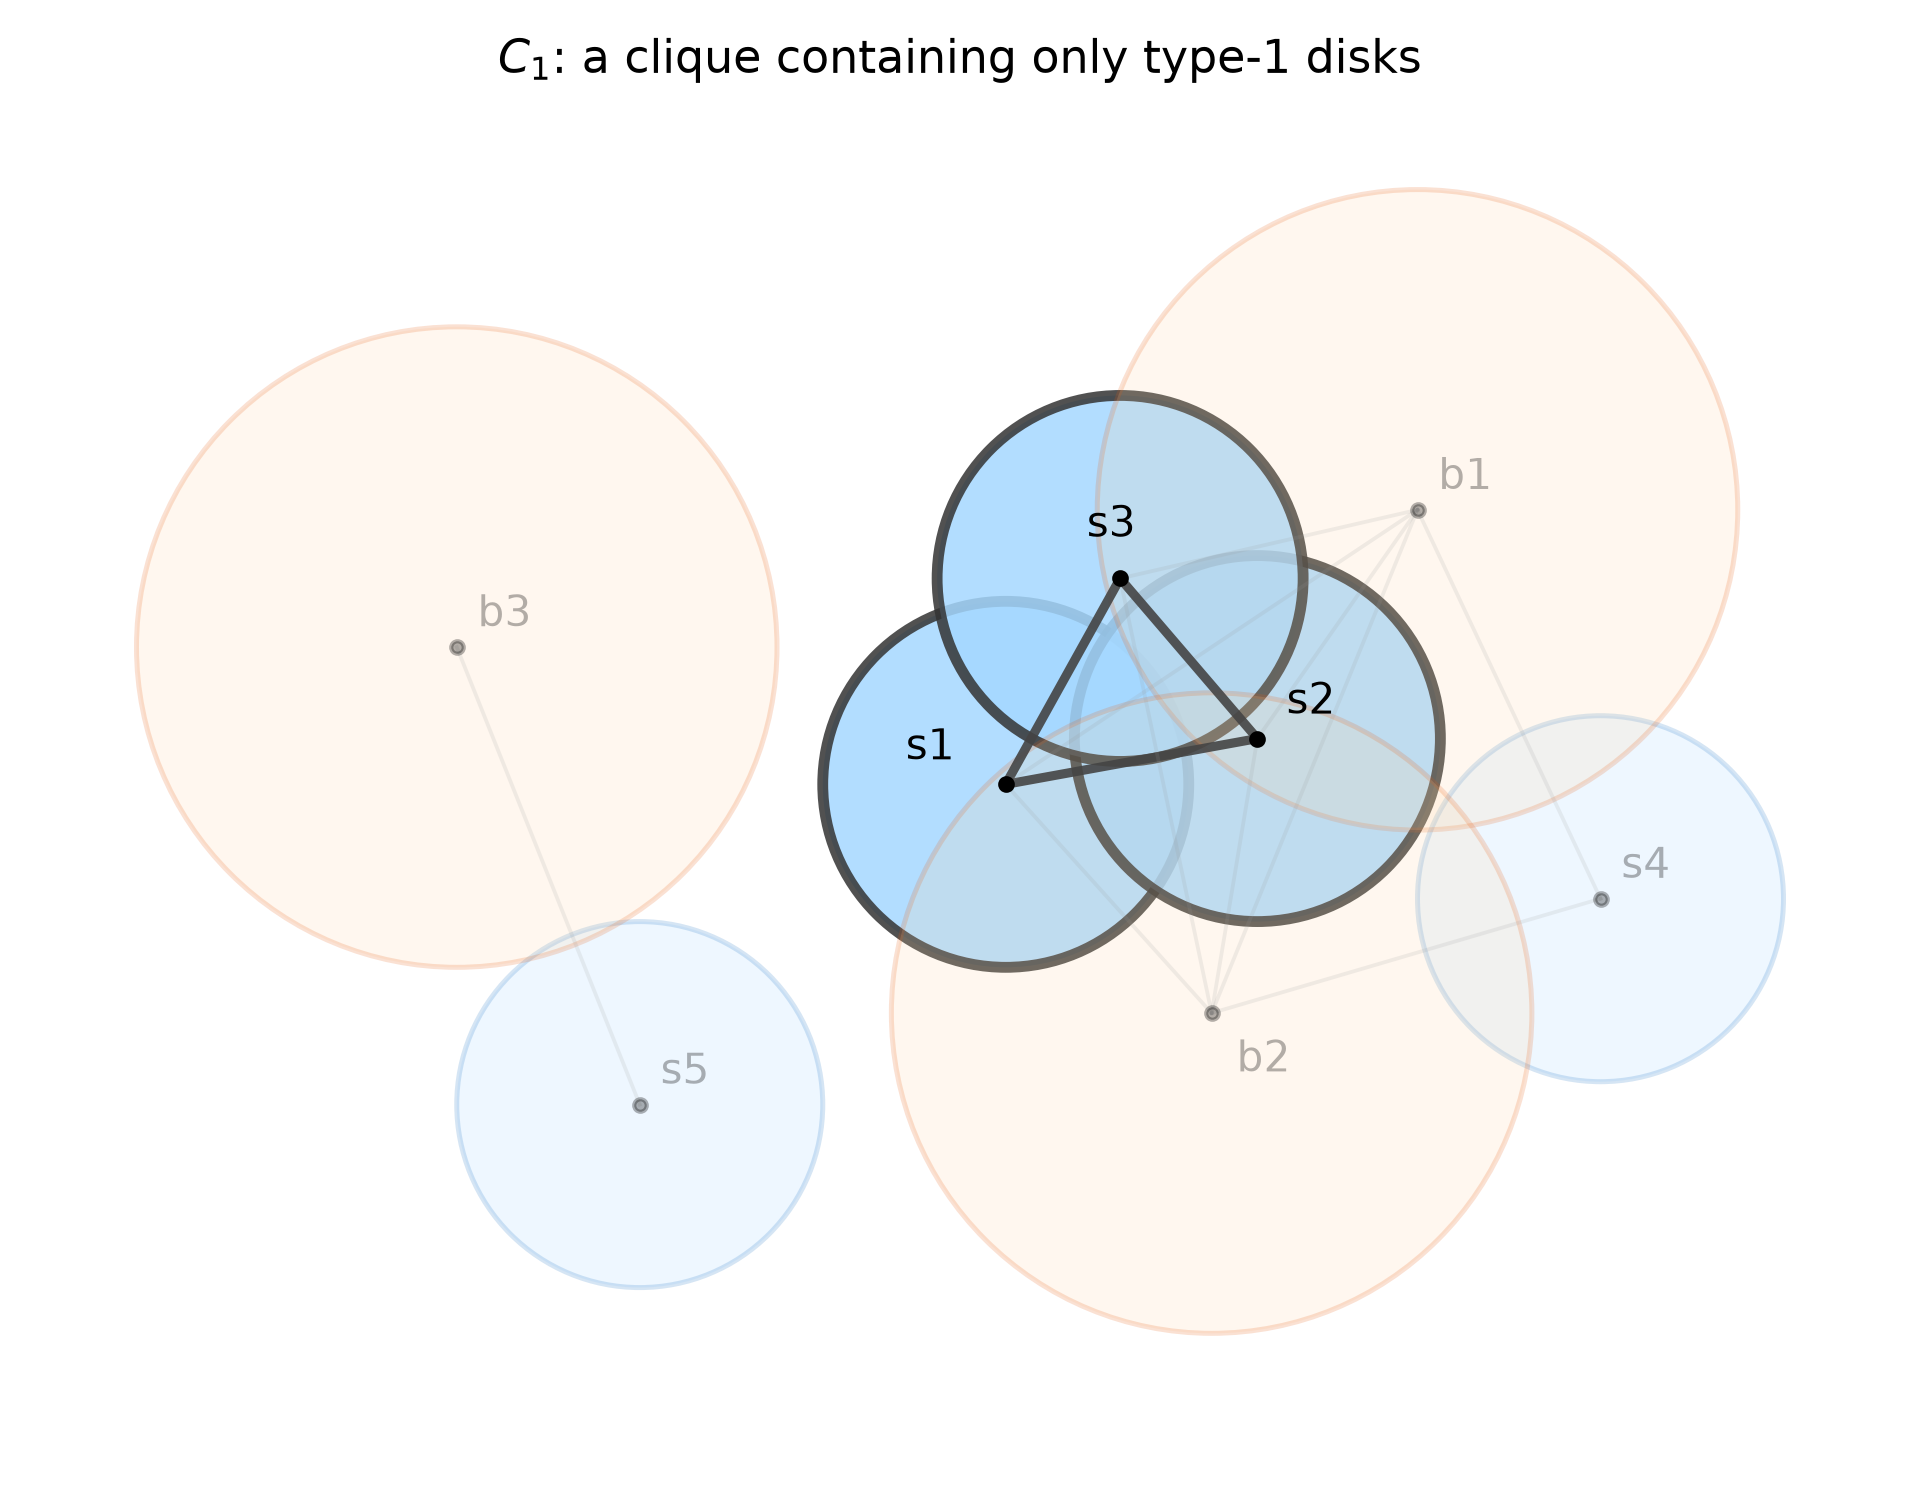
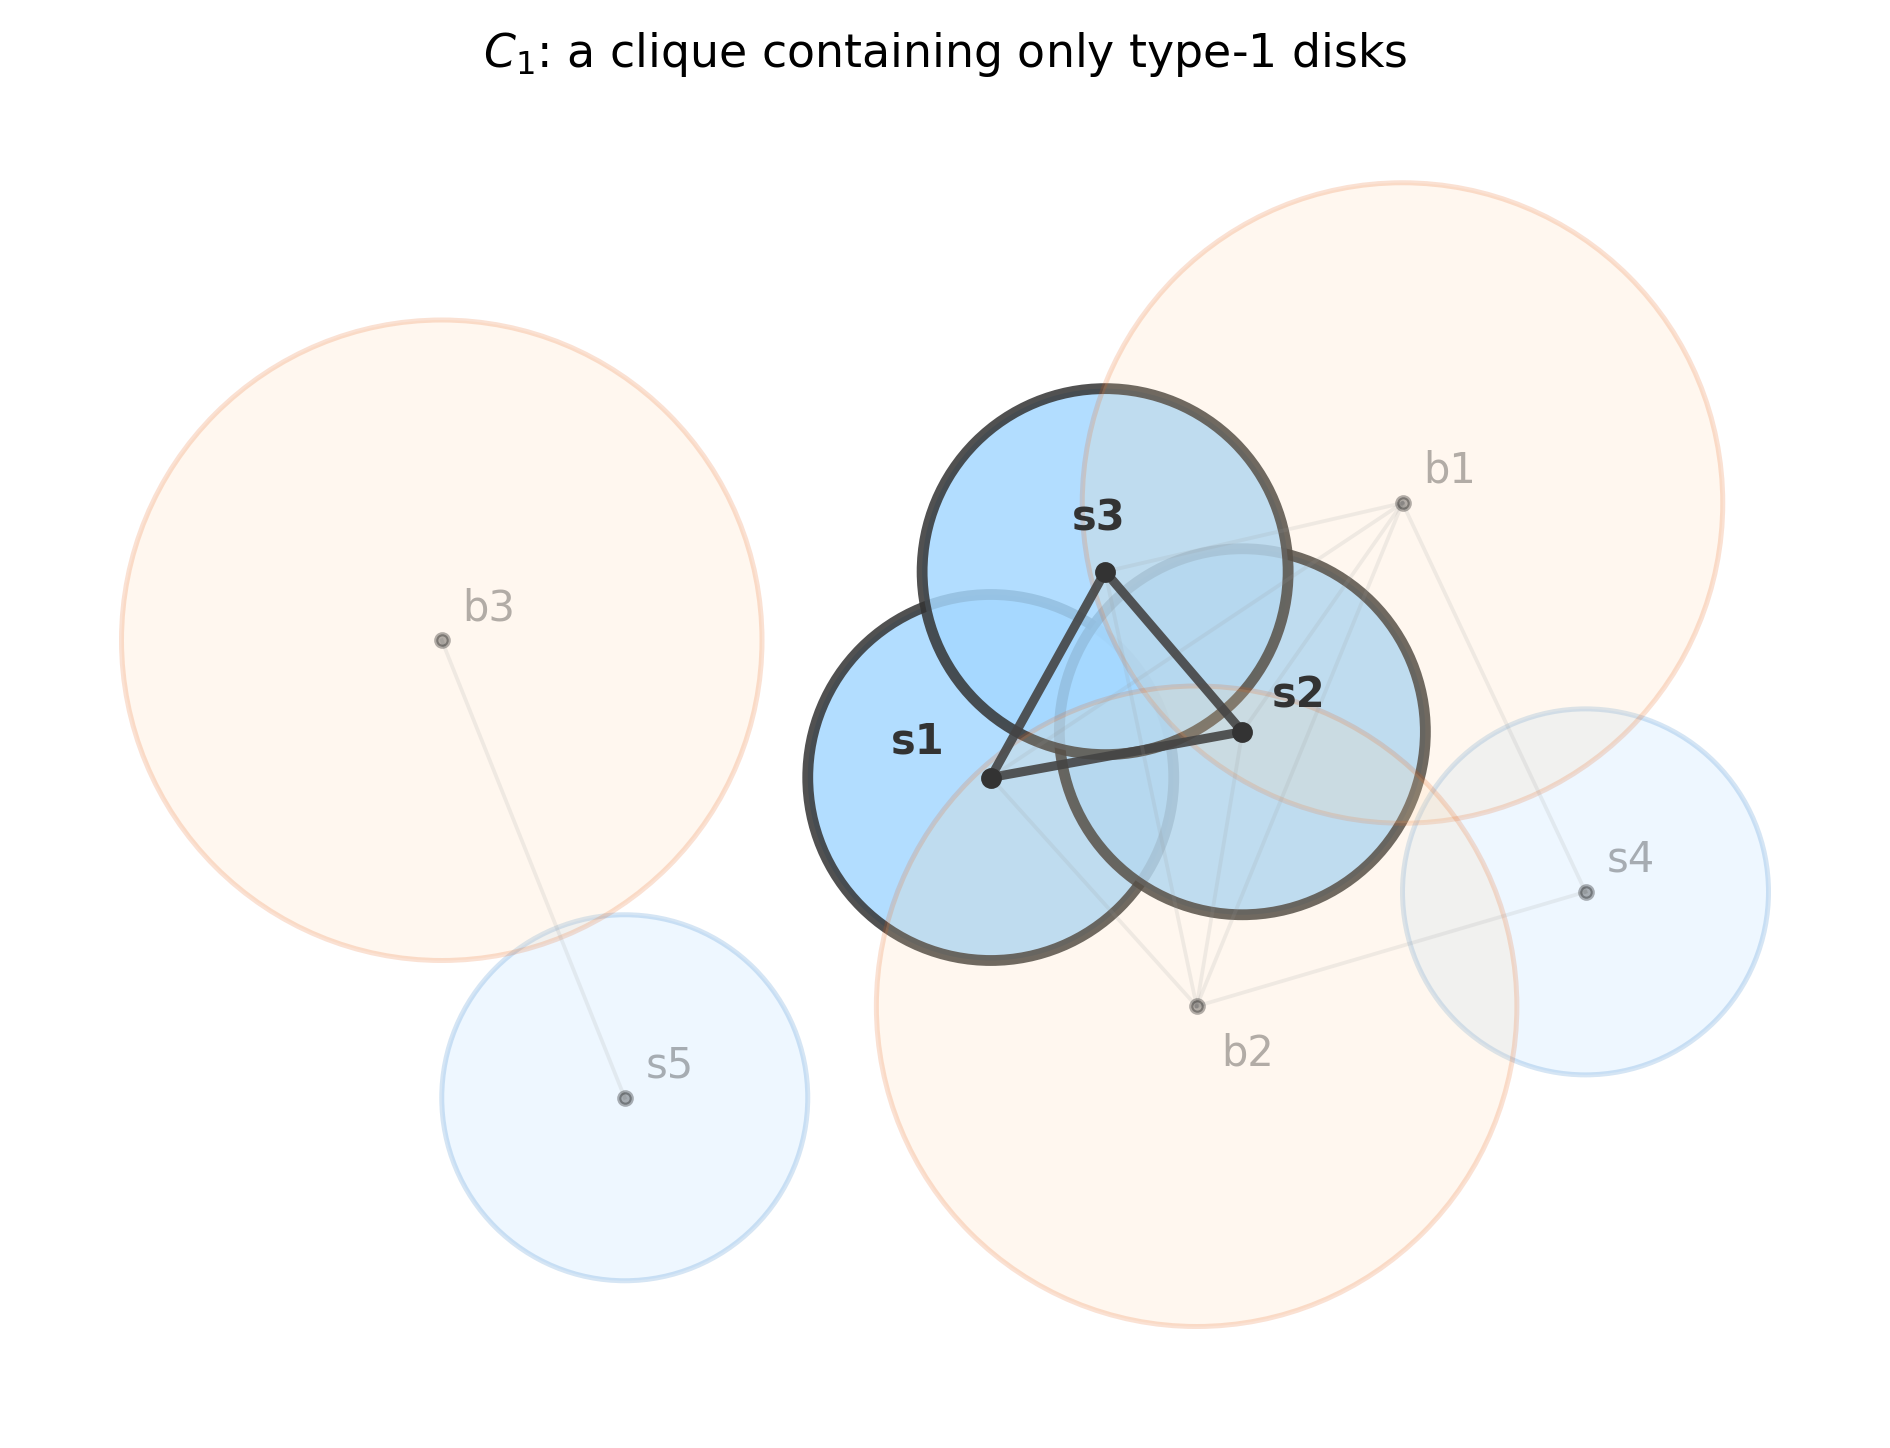
Incorporate figure feedback round 2
- Accent: bold-outlined disks get matching-color center points and
  bold labels (all figures, notation included)
- S6: slab legend entries (solid upper / hatched lower), fainter
  non-anchor context so anchors and slabs dominate
- S7: slab shading in the background, deeper fade + lighter tags on
  discarded disks; slab legend entries added
- S8: camp edges de-greened (thin gray to Psi, bold dark within X),
  full legend, and a dashed unbolded Y-preview outline on the lower
  survivor to smooth the S7->S8->S9 transition
- Notation figures re-rendered with accents

diff --git a/scene_figures.py b/scene_figures.py
@@ -180,14 +180,20 @@ def _base_axes(s, figsize=(8.2, 6.0)):
     ax.axis("off")
     return fig, ax
 
-def _disk(ax, s, i, edge, lw=1.2, alpha=.85, label_alpha=1.0, fill=True):
+def _disk(ax, s, i, edge, lw=1.2, alpha=.85, label_alpha=1.0, fill=True,
+          accent=False, ls="-"):
+    """accent=True: the center point and the name label take the edge color,
+    tying bold disks to their centers at a glance."""
     ax.add_patch(Circle(s.pos[i], s.rad[i],
                         facecolor=TYPE_FACE[s.typ[i]] if fill else "none",
-                        edgecolor=edge, alpha=alpha, lw=lw, zorder=2))
-    ax.plot(*s.pos[i], "o", color="k", ms=3, alpha=label_alpha, zorder=4)
+                        edgecolor=edge, alpha=alpha, lw=lw, ls=ls, zorder=2))
+    c = edge if accent else "k"
+    ax.plot(*s.pos[i], "o", color=c, ms=4 if accent else 3,
+            alpha=label_alpha, zorder=4)
     ax.annotate(s.name[i], s.pos[i], textcoords="offset points",
-                xytext=LABEL_OFFSETS.get(s.name[i], (5, 5)),
-                fontsize=10, alpha=label_alpha, zorder=5)
+                xytext=LABEL_OFFSETS.get(s.name[i], (5, 5)), fontsize=10,
+                color=c, alpha=label_alpha, zorder=5,
+                fontweight="bold" if accent else "normal")
 
 def _gray_edges(ax, s, dim=False):
     for i, j in itertools.combinations(range(s.n), 2):
@@ -214,7 +220,8 @@ def _draw(scene, title, emph=None, dim_others=False, edge_colors=None):
         ec = (edge_colors or {}).get(
             i, "#333" if i in emph else TYPE_EDGE[s.typ[i]])
         _disk(ax, s, i, ec, lw=2.6 if i in emph else 1.2,
-              alpha=.85 if strong else .18, label_alpha=1 if strong else .3)
+              alpha=.85 if strong else .18, label_alpha=1 if strong else .3,
+              accent=i in emph)
     for i, j in itertools.combinations(range(s.n), 2):
         if s.adj[i][j]:
             both = i in emph and j in emph
@@ -263,6 +270,30 @@ def fig_type_classes(scene, save=None):
 # Chapter 3 — algorithm walk-through (storyboard S5-S7)
 # --------------------------------------------------------------------------
 
+def _shade_slabs(ax, a, alpha=.3):
+    """Per-type slab shading: solid above the anchor segment, hatched below."""
+    s = a.s
+    (_, _), (ylo, yhi) = _limits(s)[0], _limits(s)[1]
+    for t, (ai, bi) in a.guess.items():
+        xa, xb = sorted((s.pos[ai][0], s.pos[bi][0]))
+        xs = np.linspace(xa, xb, 60)
+        ys = np.array([a.seg_y(t, x) for x in xs])
+        ax.fill_between(xs, ys, yhi, color=TYPE_FACE[t], alpha=alpha, zorder=0)
+        ax.fill_between(xs, ylo, ys, color=TYPE_FACE[t], alpha=alpha, zorder=0,
+                        hatch="//", edgecolor="white", lw=0)
+        for xw in (xa, xb):
+            ax.plot([xw, xw], [ylo, yhi], color=TYPE_EDGE[t], ls="--",
+                    lw=1.2, zorder=1)
+
+
+def _slab_legend_patches():
+    from matplotlib.patches import Patch
+    return [Patch(facecolor="#d0d4da", alpha=.7,
+                  label=r"upper slab $U_{a_ib_i}$"),
+            Patch(facecolor="#d0d4da", alpha=.7, hatch="//",
+                  edgecolor="white", label=r"lower slab $\overline{U}_{a_ib_i}$")]
+
+
 def _draw_anchor_segments(ax, a):
     """Segments a_i b_i plus their labels, per guessed type."""
     s = a.s
@@ -283,7 +314,7 @@ def fig_guess(ascene, save=None):
     fig, ax = _base_axes(s)
     for i in range(s.n):
         if i in a.psi:
-            _disk(ax, s, i, PSI_EDGE, lw=3.0)
+            _disk(ax, s, i, PSI_EDGE, lw=3.0, accent=True)
         else:
             _disk(ax, s, i, TYPE_EDGE[s.typ[i]], alpha=.35, label_alpha=.6)
     _draw_anchor_segments(ax, a)
@@ -306,7 +337,7 @@ def fig_invalid_guess(scene, pair, save=None):
     fig, ax = _base_axes(s)
     for m in range(s.n):
         if m in (i, j):
-            _disk(ax, s, m, "#e03131", lw=3.0)
+            _disk(ax, s, m, "#e03131", lw=3.0, accent=True)
         else:
             _disk(ax, s, m, TYPE_EDGE[s.typ[m]], alpha=.3, label_alpha=.5)
     mid = (s.pos[i] + s.pos[j]) / 2
@@ -325,24 +356,17 @@ def fig_slabs(ascene, save=None):
     """S6 — the slabs of each guessed type, shaded above/below the segment."""
     a, s = ascene, ascene.s
     fig, ax = _base_axes(s)
-    (_, _), (ylo, yhi) = _limits(s)[0], _limits(s)[1]
-    for t, (ai, bi) in a.guess.items():
-        xa, xb = sorted((s.pos[ai][0], s.pos[bi][0]))
-        xs = np.linspace(xa, xb, 60)
-        ys = np.array([a.seg_y(t, x) for x in xs])
-        ax.fill_between(xs, ys, yhi, color=TYPE_FACE[t], alpha=.3, zorder=0)
-        ax.fill_between(xs, ylo, ys, color=TYPE_FACE[t], alpha=.3, zorder=0,
-                        hatch="//", edgecolor="white", lw=0)
-        for xw in (xa, xb):
-            ax.plot([xw, xw], [ylo, yhi], color=TYPE_EDGE[t], ls="--",
-                    lw=1.2, zorder=1)
+    _shade_slabs(ax, a)
     for i in range(s.n):
         if i in a.psi:
-            _disk(ax, s, i, PSI_EDGE, lw=3.0, alpha=.9, fill=False)
+            _disk(ax, s, i, PSI_EDGE, lw=3.0, alpha=.9, fill=False,
+                  accent=True)
         else:
-            _disk(ax, s, i, TYPE_EDGE[s.typ[i]], lw=1.4, alpha=.55,
-                  label_alpha=.6, fill=False)
+            _disk(ax, s, i, TYPE_EDGE[s.typ[i]], lw=1.2, alpha=.25,
+                  label_alpha=.4, fill=False)
     _draw_anchor_segments(ax, a)
+    ax.legend(handles=_psi_legend(_slab_legend_patches()),
+              loc="lower left", fontsize=9)
     ax.set_title(
         r"Slabs of the guess: $U_{a_ib_i}$ (solid) and"
         r" $\overline{U}_{a_ib_i}$ (hatched), per type", fontsize=11)
@@ -355,25 +379,27 @@ def fig_filter(ascene, save=None):
     disk is discarded with its reason."""
     a, s = ascene, ascene.s
     fig, ax = _base_axes(s)
+    _shade_slabs(ax, a, alpha=.18)
     for i in range(s.n):
         if i in a.psi:
-            _disk(ax, s, i, PSI_EDGE, lw=3.0)
+            _disk(ax, s, i, PSI_EDGE, lw=3.0, accent=True)
         elif i in a.X:
-            _disk(ax, s, i, X_EDGE, lw=3.0)
+            _disk(ax, s, i, X_EDGE, lw=3.0, accent=True)
         elif i in a.Y:
-            _disk(ax, s, i, Y_EDGE, lw=3.0)
+            _disk(ax, s, i, Y_EDGE, lw=3.0, accent=True)
         else:
-            _disk(ax, s, i, "#adb5bd", lw=1.0, alpha=.18, label_alpha=.35)
+            _disk(ax, s, i, "#adb5bd", lw=1.0, alpha=.10, label_alpha=.28)
             tag = "✗ slab" if a.reasons.get(i) == "slab" else "✗ misses $\\Psi$"
             ax.annotate(tag, s.pos[i], textcoords="offset points",
                         xytext=(0, -14), fontsize=8, ha="center",
-                        color="#868e96", zorder=6)
+                        color="#adb5bd", zorder=6)
     _draw_anchor_segments(ax, a)
     handles = _psi_legend((
         Line2D([], [], color=X_EDGE, lw=2.6,
                label=rf"$X$ = upper survivors  ({', '.join(s.name[i] for i in a.X)})"),
         Line2D([], [], color=Y_EDGE, lw=2.6,
                label=rf"$Y$ = lower survivors  ({', '.join(s.name[i] for i in a.Y)})"),
+        *_slab_legend_patches(),
     ))
     ax.legend(handles=handles, loc="lower left", fontsize=9)
     ax.set_title(
@@ -394,21 +420,34 @@ def fig_x_clique(ascene, save=None):
     camp = a.X + a.psi
     for i in range(s.n):
         if i in a.X:
-            _disk(ax, s, i, X_EDGE, lw=3.0)
+            _disk(ax, s, i, X_EDGE, lw=3.0, accent=True)
         elif i in a.psi:
             _disk(ax, s, i, PSI_EDGE, lw=2.2, alpha=.55, fill=False)
+        elif i in a.Y:
+            # unbolded dashed preview of the lower camp, easing S7 -> S9
+            _disk(ax, s, i, Y_EDGE, lw=1.6, alpha=.45, fill=False, ls="--",
+                  label_alpha=.5)
         else:
             _disk(ax, s, i, "#adb5bd", lw=1.0, alpha=.12, label_alpha=.3)
     for i, j in itertools.combinations(camp, 2):
         both_x = i in a.X and j in a.X
         ax.plot(*np.c_[s.pos[i], s.pos[j]],
-                color="#333" if both_x else "#2f9e44",
-                lw=2.6 if both_x else 1.0,
-                alpha=.95 if both_x else .45, zorder=3)
+                color="#333" if both_x else "#aaa",
+                lw=2.8 if both_x else 1.1,
+                alpha=.95 if both_x else .6, zorder=3)
+    handles = _psi_legend((
+        Line2D([], [], color=X_EDGE, lw=2.6, label=r"$X$ = upper survivors"),
+        Line2D([], [], color="#333", lw=2.8,
+               label=r"adjacency within $X$ (Lemma 3.1)"),
+        Line2D([], [], color="#aaa", lw=1.1,
+               label=r"adjacency to $\Psi$ (by construction)"),
+        Line2D([], [], color=Y_EDGE, lw=1.6, ls="--",
+               label=r"$Y$ (up next)"),
+    ))
+    ax.legend(handles=handles, loc="lower left", fontsize=9)
     ax.set_title(
-        "Lemma 3.1: the disks of $X$ are mutually adjacent — guaranteed,\n"
-        "for every guess (thin green: adjacency to $\\Psi$, by construction)",
-        fontsize=11)
+        "Lemma 3.1: the disks of $X$ are mutually adjacent —\n"
+        "guaranteed for every guess", fontsize=11)
     fig.tight_layout()
     return _finish(fig, save)
 
@@ -419,9 +458,9 @@ def fig_missing_edges(ascene, save=None):
     fig, ax = _base_axes(s)
     for i in range(s.n):
         if i in a.X:
-            _disk(ax, s, i, X_EDGE, lw=3.0)
+            _disk(ax, s, i, X_EDGE, lw=3.0, accent=True)
         elif i in a.Y:
-            _disk(ax, s, i, Y_EDGE, lw=3.0)
+            _disk(ax, s, i, Y_EDGE, lw=3.0, accent=True)
         elif i in a.psi:
             _disk(ax, s, i, PSI_EDGE, lw=2.2, alpha=.5, fill=False)
         else:
@@ -500,7 +539,7 @@ def fig_assembly(ascene, save=None):
         if i in a.final:
             edge = PSI_EDGE if i in a.psi else (
                 X_EDGE if i in a.X else Y_EDGE)
-            _disk(ax, s, i, edge, lw=3.0)
+            _disk(ax, s, i, edge, lw=3.0, accent=True)
         else:
             _disk(ax, s, i, "#adb5bd", lw=1.0, alpha=.12, label_alpha=.3)
     for i, j in itertools.combinations(a.final, 2):
